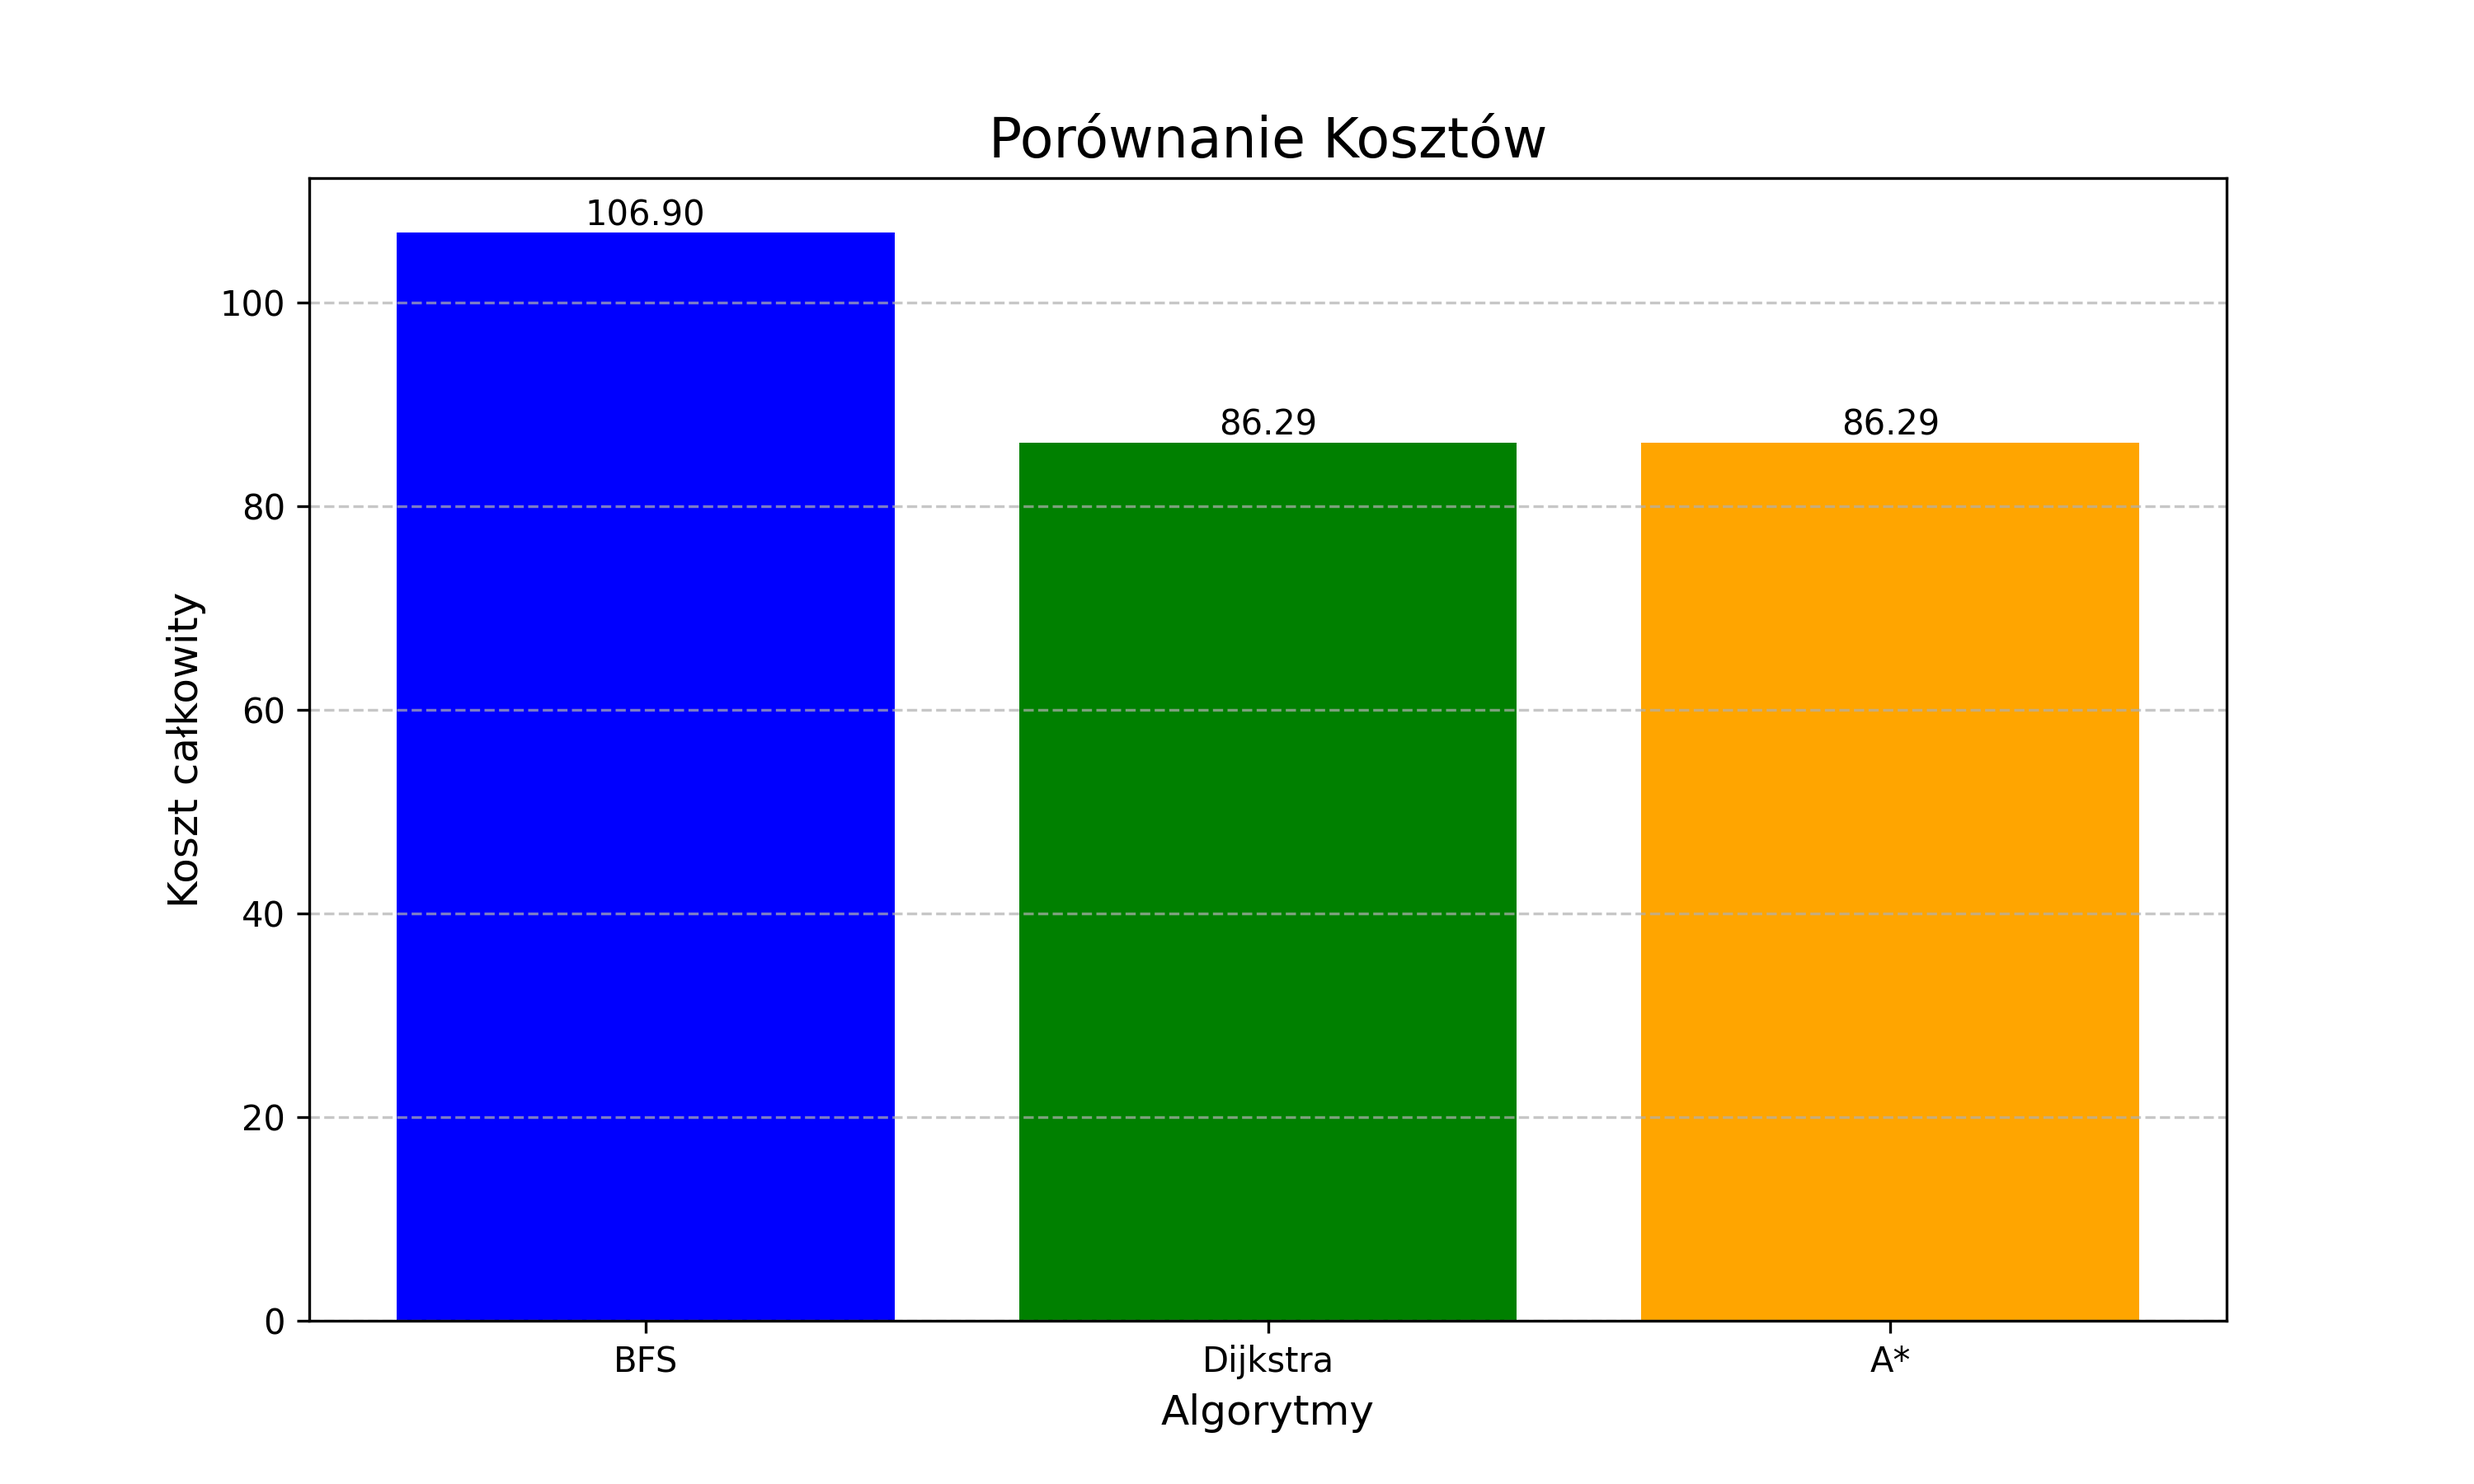
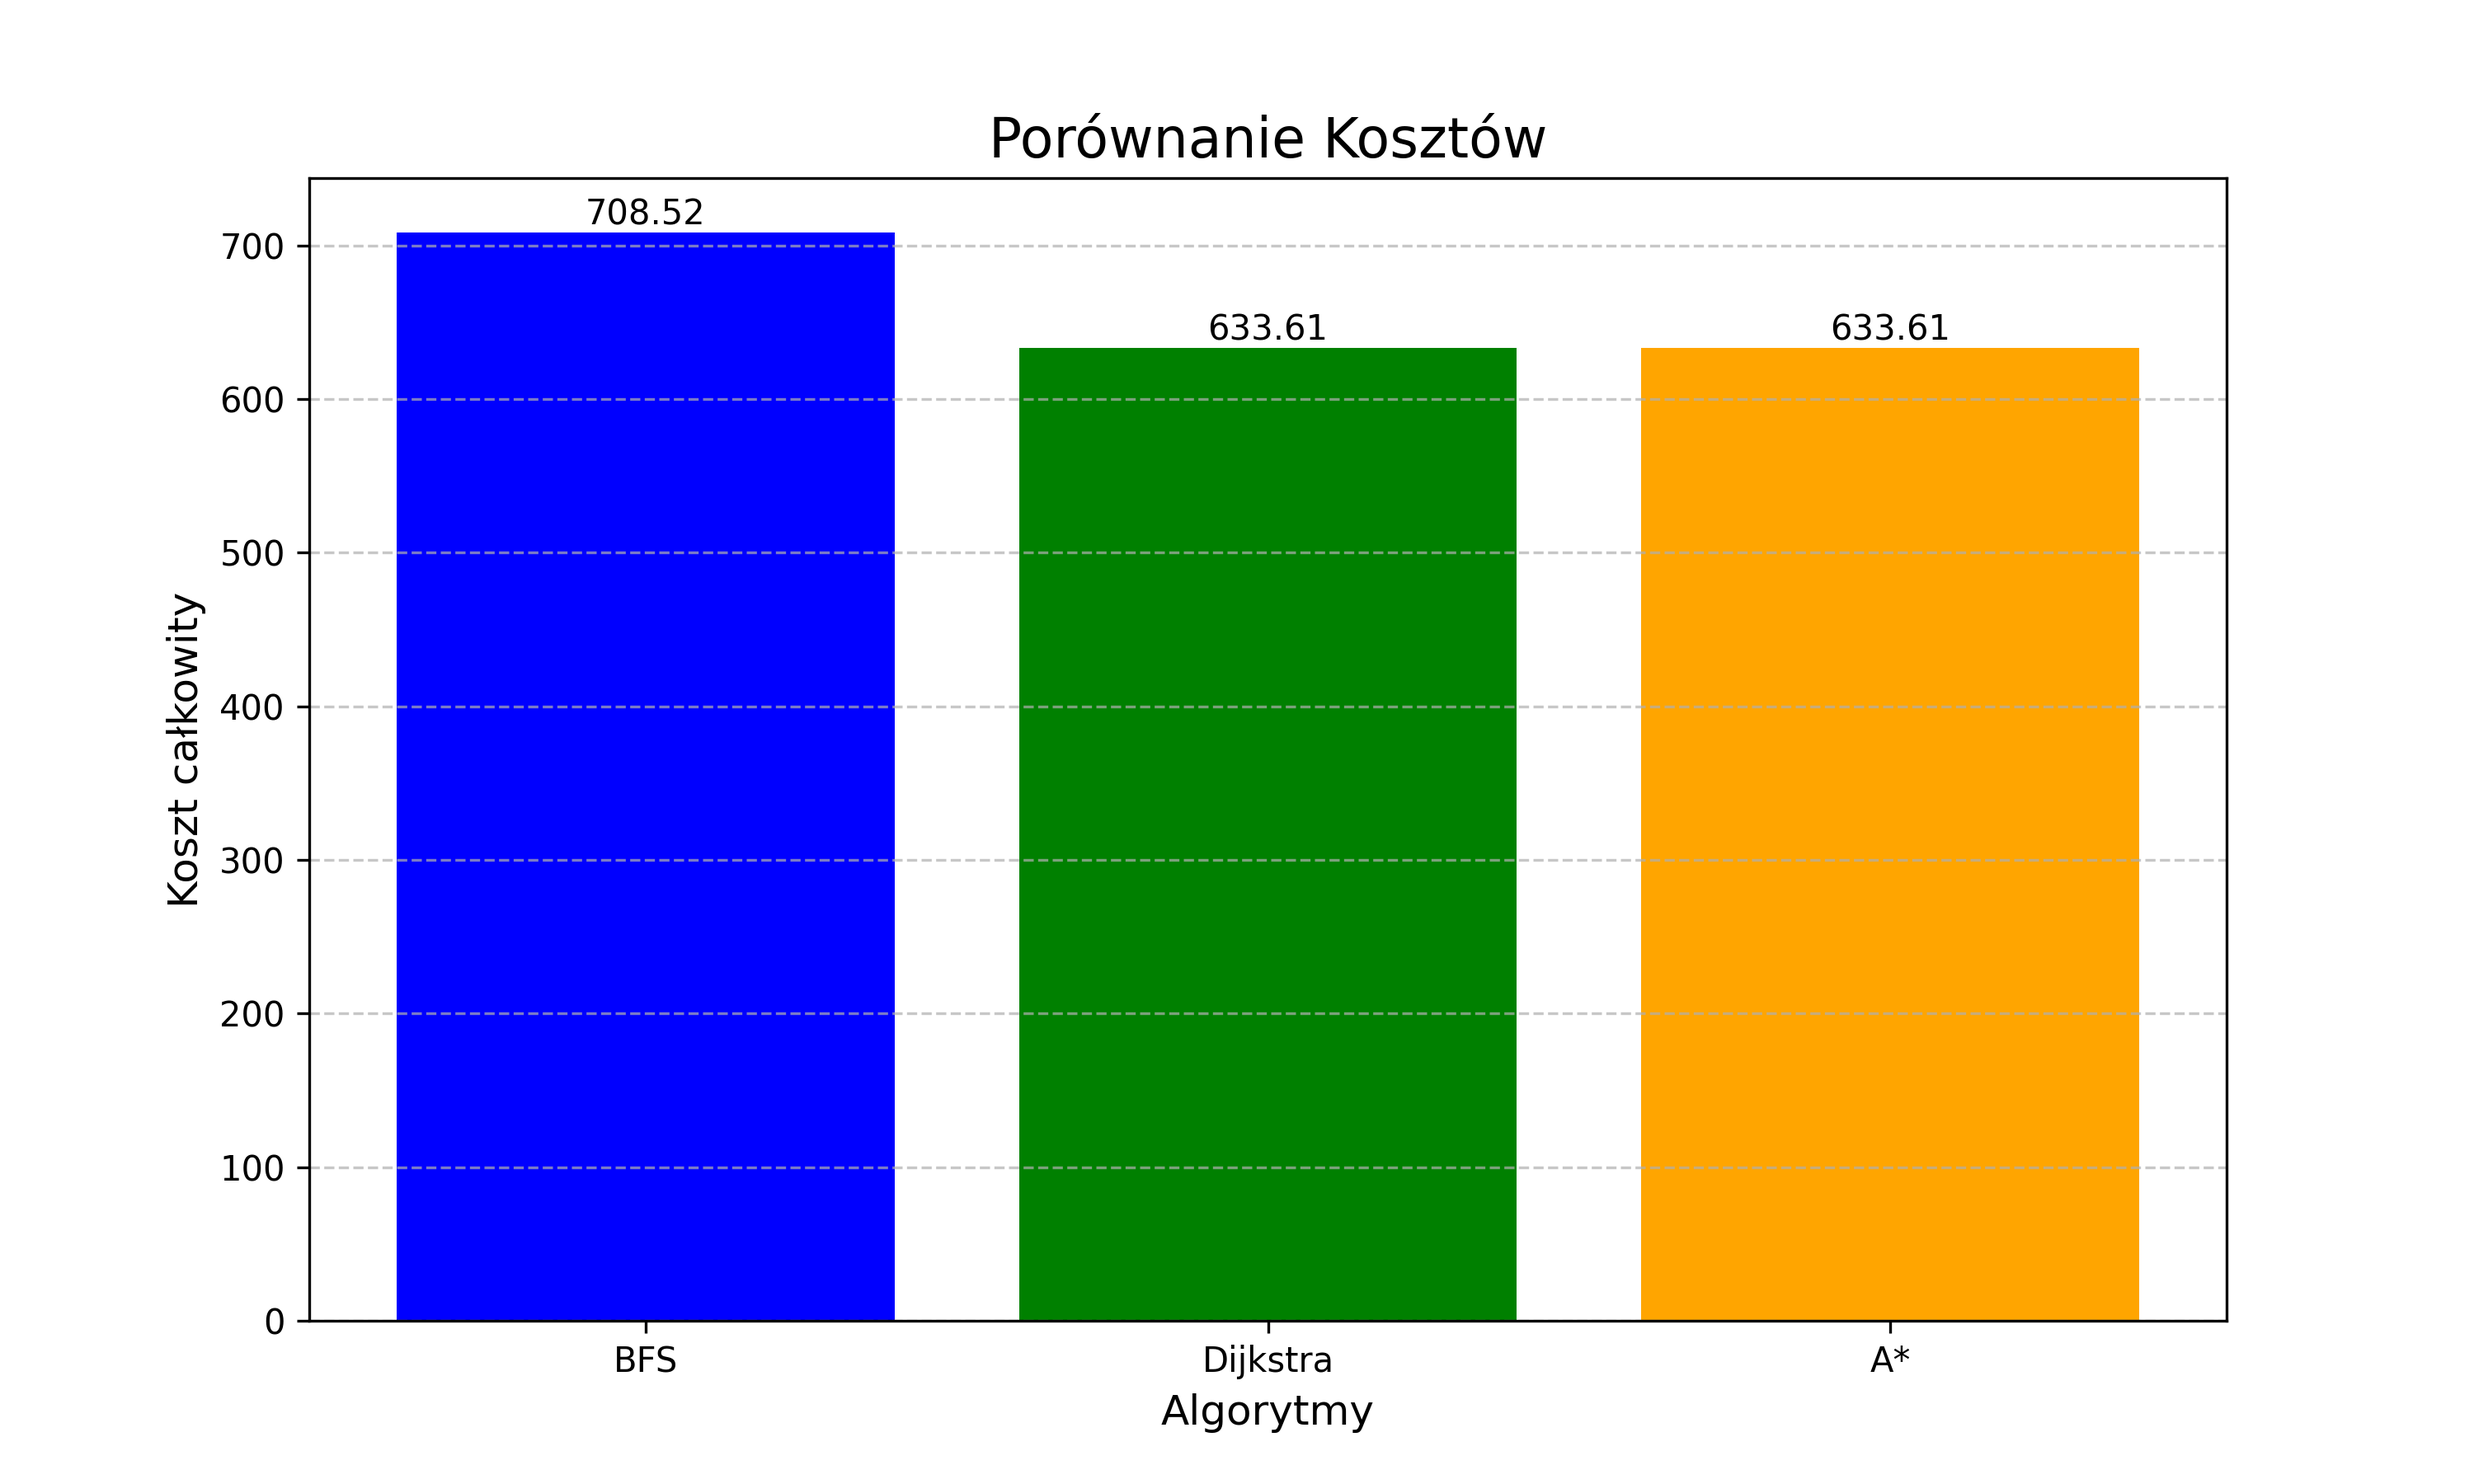
Change the location to Warsaw and increase the distance between points

diff --git a/main.py b/main.py
@@ -1,71 +1,114 @@
-"""Example file using implemented algorithms."""
-import random
-from graph_utils import initialize_graph, GraphStyler, GraphProcessor, GraphVisualizer
-from algorithms import BFSAlgorithm, DijkstraAlgorithm, AStarAlgorithm, PathReconstructor
+import matplotlib.pyplot as plt
+from graph_utils import initialize_graph_with_distant_points, GraphStyler, GraphProcessor
+from algorithms import BFSAlgorithm, DijkstraAlgorithm, AStarAlgorithm
 
+def plot_comparisons(results, save_path=None):
+    """Create enhanced bar charts for cost and execution time comparisons."""
+    # Extract data
+    algorithms = list(results.keys())
+    costs = [results[algo]["cost"] for algo in algorithms]
+    times = [results[algo]["time"] for algo in algorithms]
+
+    # Plot costs
+    plt.figure(figsize=(10, 6))
+    bars = plt.bar(algorithms, costs, color=["blue", "green", "orange"])
+    plt.title("Porównanie Kosztów", fontsize=16)
+    plt.ylabel("Koszt całkowity", fontsize=12)
+    plt.xlabel("Algorytmy", fontsize=12)
+    plt.grid(axis="y", linestyle="--", alpha=0.7)
+    plt.xticks(fontsize=10)
+    plt.yticks(fontsize=10)
+
+    # Add values on top of bars
+    for bar in bars:
+        plt.text(
+            bar.get_x() + bar.get_width() / 2,
+            bar.get_height(),
+            f"{bar.get_height():.2f}",
+            ha="center",
+            va="bottom",
+            fontsize=10,
+            color="black",
+        )
+
+    # Save chart if save_path is provided
+    if save_path:
+        plt.savefig(f"{save_path}_costs.png", dpi=300)
+        print(f"Cost comparison chart saved as {save_path}_costs.png")
+
+    plt.show()
+
+    # Plot execution times
+    plt.figure(figsize=(10, 6))
+    bars = plt.bar(algorithms, times, color=["blue", "green", "orange"])
+    plt.title("Porównanie Czasu Wykonania", fontsize=16)
+    plt.ylabel("Czas (sekundy)", fontsize=12)
+    plt.xlabel("Algorytmy", fontsize=12)
+    plt.grid(axis="y", linestyle="--", alpha=0.7)
+    plt.xticks(fontsize=10)
+    plt.yticks(fontsize=10)
+
+    # Add values on top of bars
+    for bar in bars:
+        plt.text(
+            bar.get_x() + bar.get_width() / 2,
+            bar.get_height(),
+            f"{bar.get_height():.4f}",
+            ha="center",
+            va="bottom",
+            fontsize=10,
+            color="black",
+        )
+
+    # Save chart if save_path is provided
+    if save_path:
+        plt.savefig(f"{save_path}_times.png", dpi=300)
+        print(f"Time comparison chart saved as {save_path}_times.png")
+
+    plt.show()
 
 def main():
-    """Creates an example graph and runs pathfinding algorithms."""
-    # Ustawienie miejsca, dla którego generujemy graf
-    place_name = "Gliwice, Poland"
-    graph = initialize_graph(place_name)
+    """Creates an example graph and runs pathfinding algorithms with visualizations."""
+    # Inicjalizacja grafu i węzłów startowych/końcowych
+    graph, start_node, end_node = initialize_graph_with_distant_points("Warsaw, Poland")
 
-    # Inicjalizacja obiektów do stylizacji i wizualizacji
+    # Inicjalizacja obiektów do stylizacji
     styler = GraphStyler()
-    visualizer = GraphVisualizer(graph)
 
-    # Losowy wybór węzłów startowego i końcowego
-    start = random.choice(list(graph.nodes))
-    end = random.choice(list(graph.nodes))
-    print(f"Start: {start}, End: {end}")
+    print(f"Start: {start_node}, End: {end_node}")
 
-    # Inicjalizacja węzłów i krawędzi grafu
-    GraphProcessor.initialize_nodes(graph)
-    GraphProcessor.initialize_edges(graph, styler)
+    # Przechowuje wyniki algorytmów
+    results = {}
 
     # BFS
     print("Running BFS...")
-    bfs = BFSAlgorithm(graph, visualizer, styler)
-    result_b = bfs.execute(start, end, plot=True)
-    reconstructor = PathReconstructor(graph, visualizer, styler)
-    reconstructor.reconstruct_path(start, end, plot=True)
-    visualizer.save_gif("bfs_animation.gif")
-    print("BFS completed. Animation saved as 'bfs_animation.gif'.")
-
-    # Ponowna inicjalizacja węzłów i krawędzi
     GraphProcessor.initialize_nodes(graph)
     GraphProcessor.initialize_edges(graph, styler)
+    bfs = BFSAlgorithm(graph, None, styler)
+    result_b = bfs.execute(start_node, end_node, plot=False)
+    results["BFS"] = {"path": result_b[0], "cost": result_b[1], "time": result_b[2]}
+    print("BFS completed.")
 
     # Dijkstra
     print("Running Dijkstra...")
-    dijkstra = DijkstraAlgorithm(graph, visualizer, styler)
-    result_d = dijkstra.execute(start, end, plot=True)
-    reconstructor.reconstruct_path(start, end, plot=True)
-    visualizer.save_gif("dijkstra_animation.gif")
-    print("Dijkstra completed. Animation saved as 'dijkstra_animation.gif'.")
-
-    # Ponowna inicjalizacja węzłów i krawędzi
     GraphProcessor.initialize_nodes(graph)
     GraphProcessor.initialize_edges(graph, styler)
+    dijkstra = DijkstraAlgorithm(graph, None, styler)
+    result_d = dijkstra.execute(start_node, end_node, plot=False)
+    results["Dijkstra"] = {"path": result_d[0], "cost": result_d[1], "time": result_d[2]}
+    print("Dijkstra completed.")
 
     # A*
     print("Running A*...")
-    astar = AStarAlgorithm(graph, visualizer, styler)
-    result_a = astar.execute(start, end, plot=True)
-    reconstructor.reconstruct_path(start, end, plot=True)
-    visualizer.save_gif("astar_animation.gif")
-    print("A* completed. Animation saved as 'astar_animation.gif'.")
+    GraphProcessor.initialize_nodes(graph)
+    GraphProcessor.initialize_edges(graph, styler)
+    astar = AStarAlgorithm(graph, None, styler)
+    result_a = astar.execute(start_node, end_node, plot=False)
+    results["A*"] = {"path": result_a[0], "cost": result_a[1], "time": result_a[2]}
+    print("A* completed.")
 
-    print(f"BFS path: {result_b[0]}")
-    print(f"BFS cost: {result_b[1]}")
-    print(f"BFS time: {result_b[2]}")
-    print(f"Dijkstra path: {result_d[0]}")
-    print(f"Dijkstra cost: {result_d[1]}")
-    print(f"Dijkstra time: {result_d[2]}")
-    print(f"A* path: {result_a[0]}")
-    print(f"A* cost: {result_a[1]}")
-    print(f"A* time: {result_a[2]}")
-
+    # Visualize comparisons and save charts
+    plot_comparisons(results, save_path="algorithm_comparison")
 
 if __name__ == "__main__":
     main()

diff --git a/compare.py b/compare.py
@@ -1,22 +1,15 @@
 """Example file using implemented algorithms to compare results."""
-import random
-from graph_utils import initialize_graph, GraphStyler, GraphProcessor, GraphVisualizer
+from graph_utils import initialize_graph_with_distant_points, GraphStyler, GraphProcessor
 from algorithms import BFSAlgorithm, DijkstraAlgorithm, AStarAlgorithm
-
 
 def main():
     """Creates an example graph and runs pathfinding algorithms."""
-    # Ustawienie miejsca, dla którego generujemy graf
-    place = "Gliwice, Poland"
-    graph = initialize_graph(place)
+    # Inicjalizacja grafu i węzłów startowych/końcowych
+    graph, start_node, end_node = initialize_graph_with_distant_points("Warsaw, Poland")
 
-    # Inicjalizacja obiektów do stylizacji i wizualizacji
+    # Inicjalizacja obiektów do stylizacji
     styler = GraphStyler()
-    visualizer = GraphVisualizer(graph)
 
-    # Losowy wybór węzłów startowego i końcowego
-    start_node = random.choice(list(graph.nodes))
-    end_node = random.choice(list(graph.nodes))
     print(f"Start: {start_node}, End: {end_node}")
 
     # Inicjalizacja węzłów i krawędzi grafu
@@ -25,7 +18,7 @@ def main():
 
     # BFS
     print("Running BFS...")
-    bfs = BFSAlgorithm(graph, visualizer, styler)
+    bfs = BFSAlgorithm(graph, None, styler)
     result_b = bfs.execute(start_node, end_node, plot=False)
     print("BFS completed.")
 
@@ -35,7 +28,7 @@ def main():
 
     # Dijkstra
     print("Running Dijkstra...")
-    dijkstra = DijkstraAlgorithm(graph, visualizer, styler)
+    dijkstra = DijkstraAlgorithm(graph, None, styler)
     result_d = dijkstra.execute(start_node, end_node, plot=False)
     print("Dijkstra completed.")
 
@@ -45,7 +38,7 @@ def main():
 
     # A*
     print("Running A*...")
-    astar = AStarAlgorithm(graph, visualizer, styler)
+    astar = AStarAlgorithm(graph, None, styler)
     result_a = astar.execute(start_node, end_node, plot=False)
     print("A* completed.")
 
@@ -65,7 +58,6 @@ def main():
     print(f"A* time: {result_a[2]}")
 
     print("All algorithms completed.")
-
 
 if __name__ == "__main__":
     main()

diff --git a/compare_charts.py b/compare_charts.py
@@ -1,8 +1,6 @@
-import random
 import matplotlib.pyplot as plt
-from graph_utils import initialize_graph, GraphStyler, GraphProcessor
+from graph_utils import initialize_graph_with_distant_points, GraphStyler, GraphProcessor
 from algorithms import BFSAlgorithm, DijkstraAlgorithm, AStarAlgorithm
-
 
 def plot_comparisons(results, save_path=None):
     """Create enhanced bar charts for cost and execution time comparisons."""
@@ -69,19 +67,14 @@ def plot_comparisons(results, save_path=None):
 
     plt.show()
 
-
 def main():
     """Creates an example graph and runs pathfinding algorithms with visualizations."""
-    # Ustawienie miejsca, dla którego generujemy graf
-    place = "Gliwice, Poland"
-    graph = initialize_graph(place)
+    # Inicjalizacja grafu i węzłów startowych/końcowych
+    graph, start_node, end_node = initialize_graph_with_distant_points("Warsaw, Poland")
 
-    # Inicjalizacja obiektów do stylizacji i wizualizacji
+    # Inicjalizacja obiektów do stylizacji
     styler = GraphStyler()
 
-    # Losowy wybór węzłów startowego i końcowego
-    start_node = random.choice(list(graph.nodes))
-    end_node = random.choice(list(graph.nodes))
     print(f"Start: {start_node}, End: {end_node}")
 
     # Przechowuje wyniki algorytmów
@@ -116,7 +109,6 @@ def main():
 
     # Visualize comparisons and save charts
     plot_comparisons(results, save_path="algorithm_comparison")
-
 
 if __name__ == "__main__":
     main()

diff --git a/graph_utils.py b/graph_utils.py
@@ -4,6 +4,7 @@ from PIL import Image
 import matplotlib.pyplot as plt
 import osmnx as ox
 import networkx as nx
+import random
 
 
 class GraphStyler:
@@ -132,3 +133,24 @@ def initialize_graph(place_name: str):
 
     print(f"Graph initialized with {len(graph.nodes)} nodes and {len(graph.edges)} edges.")
     return graph
+
+
+def select_distant_nodes(graph, min_distance=32000):
+    """Select two nodes in the graph that are at least min_distance apart."""
+    nodes = list(graph.nodes)
+    while True:
+        start = random.choice(nodes)
+        end = random.choice(nodes)
+        if start != end:
+            try:
+                distance = nx.shortest_path_length(graph, source=start, target=end, weight='length')
+                if distance >= min_distance:
+                    return start, end
+            except nx.NetworkXNoPath:
+                continue
+
+
+def initialize_graph_with_distant_points(place_name="Warsaw, Poland"):
+    graph = initialize_graph(place_name)
+    start, end = select_distant_nodes(graph)
+    return graph, start, end
